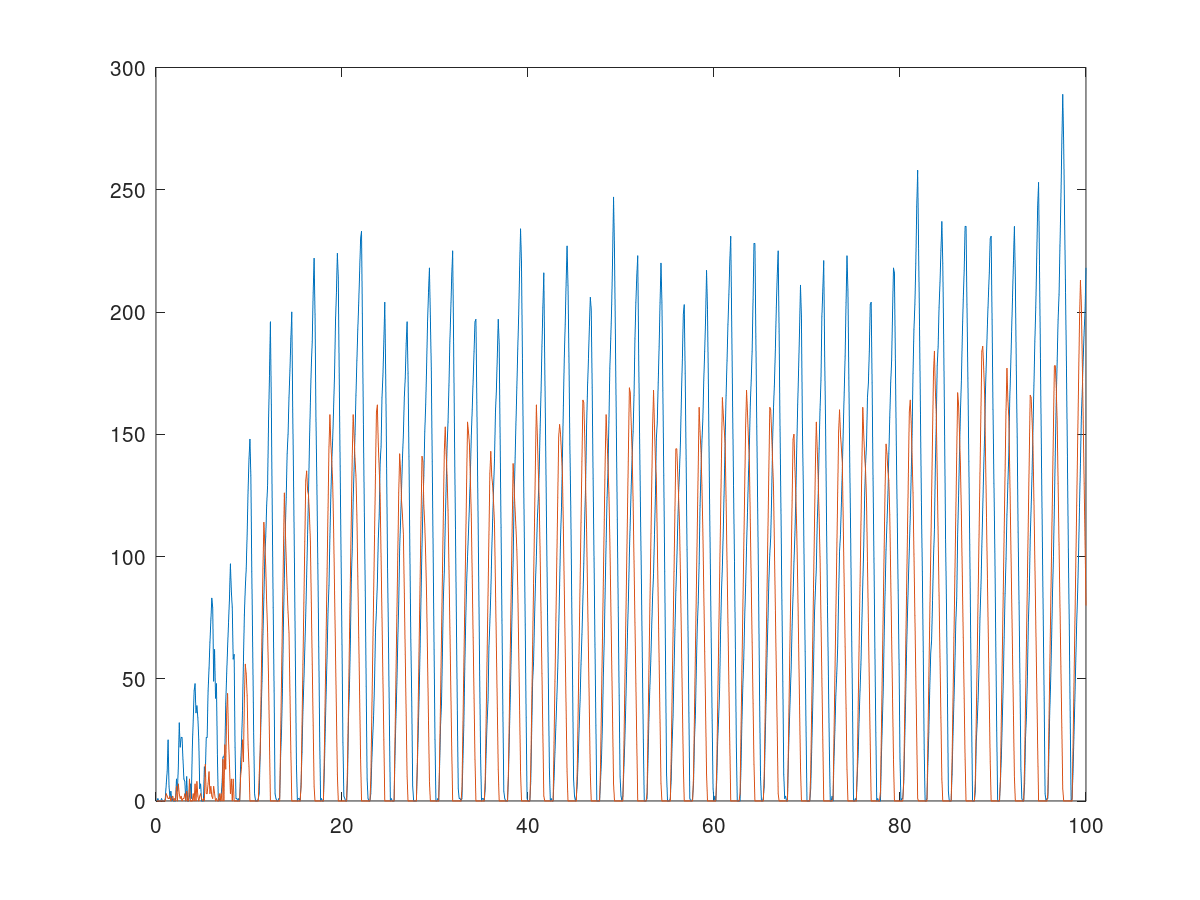
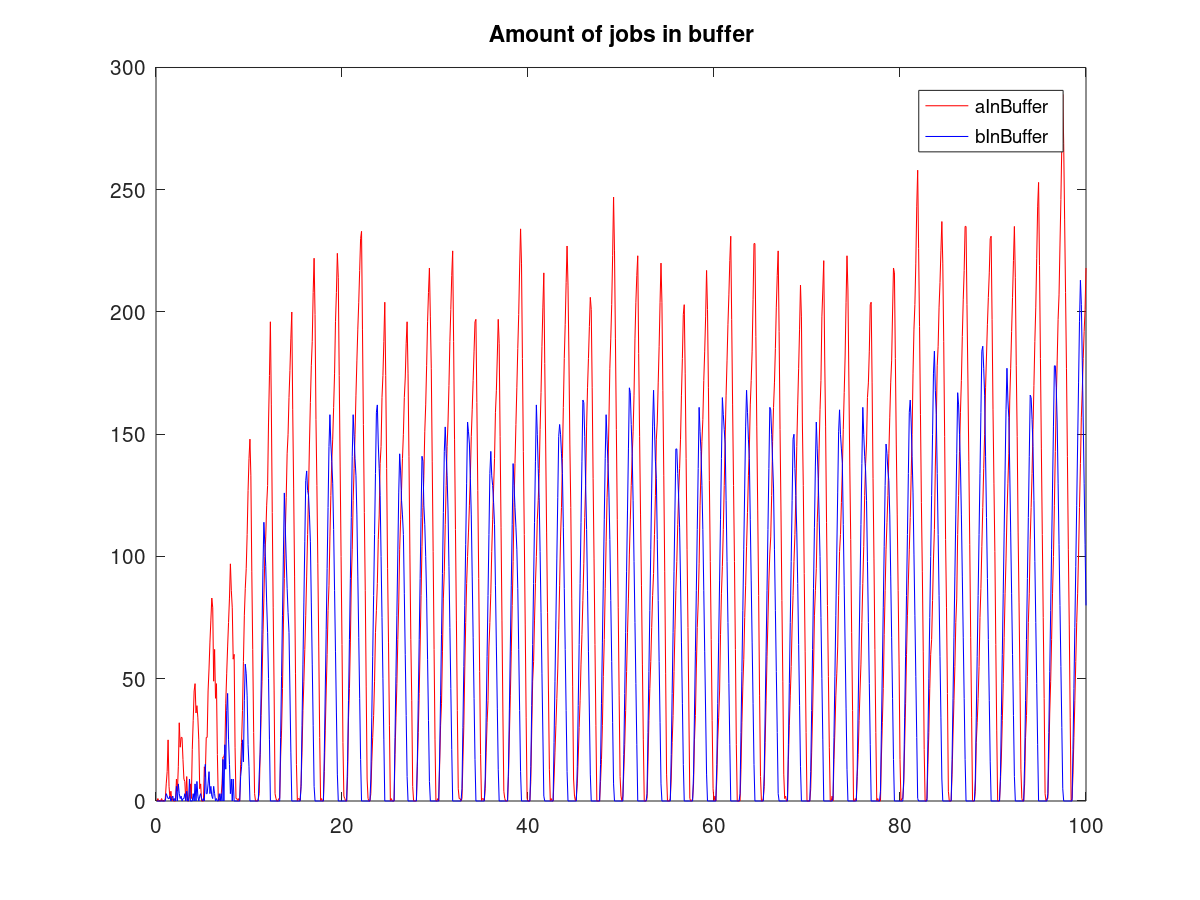
task 2 prettier graph, and some work on task 5

Changed region(s): [[0.1233, 0.0933, 0.925, 0.9022], [0.4008, 0.0311, 0.6475, 0.0622], [0.0925, 0.0622, 0.1233, 0.0933]]

diff --git a/assignment1/project/src/task5/MainSimulation.java b/assignment1/project/src/task5/MainSimulation.java
@@ -1,56 +1,73 @@
 package task5;
 
 import java.io.*;
+import java.util.Queue;
+import java.util.List;
+import java.util.Arrays;
 
 //Denna klass �rver Global s� att man kan anv�nda time och signalnamnen utan punktnotation
 //It inherits Proc so that we can use time and the signal names without dot notation
 
 public class MainSimulation extends Global {
 
-	public static void main(String[] args) throws IOException {
+    public static Proc pickLeast(QS[] input) {
+        List<QS> candidates = Arrays.asList(input);
 
-		// Signallistan startas och actSignal deklareras. actSignal �r den senast
-		// utplockade signalen i huvudloopen nedan.
-		// The signal list is started and actSignal is declaree. actSignal is the latest
-		// signal that has been fetched from the
-		// signal list in the main loop below.
+        candidates.sort((a, b) -> b.noMeasurements - a.noMeasurements);
+        candidates.removeIf(a -> a.noMeasurements > candidates.get(0).noMeasurements);
+        return candidates.get(random.nextInt(candidates.size()));
+    }
 
-		Signal actSignal;
-		new SignalList();
+    public static void main(String[] args) throws IOException {
 
-		// H�r nedan skapas de processinstanser som beh�vs och parametrar i dem ges
-		// v�rden.
-		// Here process instances are created (two queues and one generator) and their
-		// parameters are given values.
+        // Signallistan startas och actSignal deklareras. actSignal �r den senast
+        // utplockade signalen i huvudloopen nedan.
+        // The signal list is started and actSignal is declaree. actSignal is the latest
+        // signal that has been fetched from the
+        // signal list in the main loop below.
 
-		QS Q1 = new QS();
-		Q1.sendTo = null;
+        Signal actSignal;
+        new SignalList();
 
-		Gen Generator = new Gen();
-		Generator.lambda = 9; // Generator ska generera nio kunder per sekund //Generator shall generate 9
-								// customers per second
-		Generator.sendTo = Q1; // De genererade kunderna ska skickas till k�systemet QS // The generated
-								// customers shall be sent to Q1
+        // H�r nedan skapas de processinstanser som beh�vs och parametrar i dem ges
+        // v�rden.
+        // Here process instances are created (two queues and one generator) and their
+        // parameters are given values.
 
-		// H�r nedan skickas de f�rsta signalerna f�r att simuleringen ska komma ig�ng.
-		// To start the simulation the first signals are put in the signal list
+        QS[] queueList = new QS[] { new QS(mean -> expRandom(mean), 0.5), new QS(mean -> expRandom(mean), 0.5),
+                new QS(mean -> expRandom(mean), 0.5), new QS(mean -> expRandom(mean), 0.5),
+                new QS(mean -> expRandom(mean), 0.5) };
 
-		SignalList.SendSignal(READY, Generator, time);
-		SignalList.SendSignal(MEASURE, Q1, time);
+        int counter = 0;
+        Gen RandomGenerator = new Gen(9, queueList, ql -> ql[random.nextInt(ql.length)]);
+        Gen RoundRobinGenerator = new Gen(9, queueList, ql -> ql[counter++ % ql.length]);
+        Gen LeastGenerator = new Gen(9, queueList, ql -> pickLeast((QS[]) ql));
+        // Generator ska generera nio kunder per sekund //Generator shall generate 9
+        // customers per second
+        // De genererade kunderna ska skickas till k�systemet QS // The generated
+        // customers shall be sent to Q1
 
-		// Detta �r simuleringsloopen:
-		// This is the main loop
+        // H�r nedan skickas de f�rsta signalerna f�r att simuleringen ska komma ig�ng.
+        // To start the simulation the first signals are put in the signal list
 
-		while (time < 100000) {
-			actSignal = SignalList.FetchSignal();
-			time = actSignal.arrivalTime;
-			actSignal.destination.TreatSignal(actSignal);
-		}
+        SignalList.SendSignal(READY, RandomGenerator, time);
+        for (QS q : queueList) {
+            SignalList.SendSignal(MEASURE, q, time);
+        }
 
-		// Slutligen skrivs resultatet av simuleringen ut nedan:
-		// Finally the result of the simulation is printed below:
+        // Detta �r simuleringsloopen:
+        // This is the main loop
 
-		System.out.println("Mean number of customers in queuing system: " + 1.0 * Q1.accumulated / Q1.noMeasurements);
+        while (time < 100000) {
+            actSignal = SignalList.FetchSignal();
+            time = actSignal.arrivalTime;
+            actSignal.destination.TreatSignal(actSignal);
+        }
 
-	}
+        // Slutligen skrivs resultatet av simuleringen ut nedan:
+        // Finally the result of the simulation is printed below:
+
+        System.out.println("Mean number of customers in queuing system: " + 1.0 * Q1.accumulated / Q1.noMeasurements);
+
+    }
 }

diff --git a/assignment1/project/src/task5/QS.java b/assignment1/project/src/task5/QS.java
@@ -1,41 +1,42 @@
 package task5;
 
-import java.util.*;
+import java.util.function.DoubleFunction;
 
 // This class defines a simple queuing system with one server. It inherits Proc so that we can use time and the
 // signal names without dot notation
 class QS extends Proc {
-	public int numberInQueue = 0, accumulated, noMeasurements;
+	public int numberInQueue, accumulated, noMeasurements;
 	public Proc sendTo;
-	Random slump = new Random();
+
+	DoubleFunction<Double> timeFunc;
+	double mean;
+
+	public QS(DoubleFunction<Double> timeFunc, double mean) {
+		this.timeFunc = timeFunc;
+		this.mean = mean;
+	}
 
 	public void TreatSignal(Signal x) {
 		switch (x.signalType) {
-
-			case ARRIVAL: {
+			case ARRIVAL:
 				numberInQueue++;
 				if (numberInQueue == 1) {
-					SignalList.SendSignal(READY, this, time + 0.2 * slump.nextDouble());
+					SignalList.SendSignal(READY, this, time + timeFunc.apply(mean));
 				}
-			}
 				break;
-
-			case READY: {
+			case READY:
 				numberInQueue--;
 				if (sendTo != null) {
 					SignalList.SendSignal(ARRIVAL, sendTo, time);
 				}
 				if (numberInQueue > 0) {
-					SignalList.SendSignal(READY, this, time + 0.2 * slump.nextDouble());
+					SignalList.SendSignal(READY, this, time + timeFunc.apply(mean));
 				}
-			}
 				break;
-
-			case MEASURE: {
+			case MEASURE:
 				noMeasurements++;
 				accumulated = accumulated + numberInQueue;
-				SignalList.SendSignal(MEASURE, this, time + 2 * slump.nextDouble());
-			}
+				SignalList.SendSignal(MEASURE, this, time + expRandom(1));
 				break;
 		}
 	}

diff --git a/assignment1/project/src/task5/Gen.java b/assignment1/project/src/task5/Gen.java
@@ -1,30 +1,33 @@
 package task5;
 
-import java.util.*;
+import java.util.function.Function;
 
 //Denna klass �rver Proc, det g�r att man kan anv�nda time och signalnamn utan punktnotation
 //It inherits Proc so that we can use time and the signal names without dot notation 
 
 class Gen extends Proc {
 
-	// Slumptalsgeneratorn startas:
-	// The random number generator is started:
-	Random slump = new Random();
-
 	// Generatorn har tv� parametrar:
 	// There are two parameters:
-	public Proc sendTo; // Anger till vilken process de genererade kunderna ska skickas //Where to send
-						// customers
+	public Proc[] sendTo; // Anger till vilken process de genererade kunderna ska skickas //Where to send
+							// customers
 	public double lambda; // Hur m�nga per sekund som ska generas //How many to generate per second
+
+	public Function<Proc[], Proc> picker;
+
+	public Gen(double lambda, Proc[] sendTo, Function<Proc[], Proc> picker) {
+		this.lambda = lambda;
+		this.sendTo = sendTo;
+		this.picker = picker;
+	}
 
 	// H�r nedan anger man vad som ska g�ras n�r en signal kommer //What to do when
 	// a signal arrives
 	public void TreatSignal(Signal x) {
 		switch (x.signalType) {
-			case READY: {
-				SignalList.SendSignal(ARRIVAL, sendTo, time);
-				SignalList.SendSignal(READY, this, time + (2.0 / lambda) * slump.nextDouble());
-			}
+			case READY:
+				SignalList.SendSignal(ARRIVAL, picker.apply(sendTo), time);
+				SignalList.SendSignal(READY, this, time + (2.0 / lambda) * random.nextDouble());
 				break;
 		}
 	}

diff --git a/assignment1/project/src/task5/Global.java b/assignment1/project/src/task5/Global.java
@@ -1,6 +1,14 @@
 package task5;
 
+import java.util.Random;
+
 public class Global {
-	public static final int ARRIVAL = 1, READY = 2, MEASURE = 3;
-	public static double time = 0;
+    public static final int ARRIVAL = 1, READY = 2, MEASURE = 3;
+    public static double time = 0;
+
+    public static final Random random = new Random();
+
+    public static double expRandom(double mean) {
+        return -mean * Math.log(1 - random.nextDouble());
+    }
 }

diff --git a/assignment1/project/results/task2/task2.m b/assignment1/project/results/task2/task2.m
@@ -4,4 +4,5 @@ time = x(:, 1);
 abuf = x(:, 2);
 bbuf = x(:, 3);
 
-plot(time, abuf, time, bbuf);
+plot(time, abuf, "r;aInBuffer;", time, bbuf, "b;bInBuffer;");
+title("Amount of jobs in buffer");
